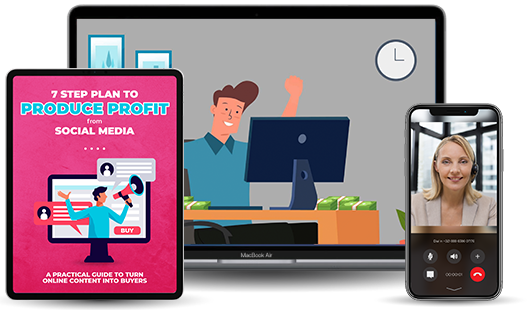
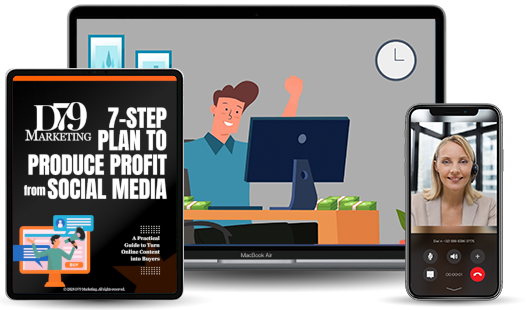
new D79 strategy guide thumbnails + orange theme updates

Changed region(s): [[0.0, 0.2323, 0.3321, 0.9871]]

diff --git a/_includes/modalcontact.html b/_includes/modalcontact.html
@@ -8,7 +8,12 @@
             <button type="button" class="btn btn-secondary" data-dismiss="modal">Close</button>
             <!-- <button type="button" class="btn btn-primary">Save changes</button> -->
           </div>
-            <section id="contact" style="background-color: #1491da; border-radius: 20px;">
+            <section id="contact" 
+                    style="background-color: rgb(0,0,0);
+                           background: linear-gradient(90deg, rgba(0,0,0,1) 0%, rgba(65,65,65,1) 40%, rgba(0,0,0,1) 100%); border-radius: 50px;
+                           border-style: solid;
+                           border-color: #979797;
+                           ">
                 <div class="container"  style="width: auto; padding-right: 40px;" >
                   <h1 class="section-subheading" style="color: white;">You're One Step Away From Instant Access!</h1>
                     <div class="row">
@@ -58,8 +63,8 @@
 
                             <script src="https://www.google.com/recaptcha/api.js" async defer></script>
                             <form id="fs-frm" name="simple-contact-form" accept-charset="utf-8" action="https://formspree.io/f/mbjnpqyn" method="post">
-                              <fieldset id="fs-frm-inputs">
-                                <label for="full-name">Full Name</label>
+                              <fieldset id="fs-frm-inputs" style="color: #ff6100">
+                                <label for="full-name" >Full Name</label>
                                 <input type="text" name="name" id="full-name" placeholder="First and Last" required="">
                                 <label for="email-address">Email Address</label>
                                 <input type="email" name="_replyto" id="email-address" placeholder="email@domain.tld" required="">
